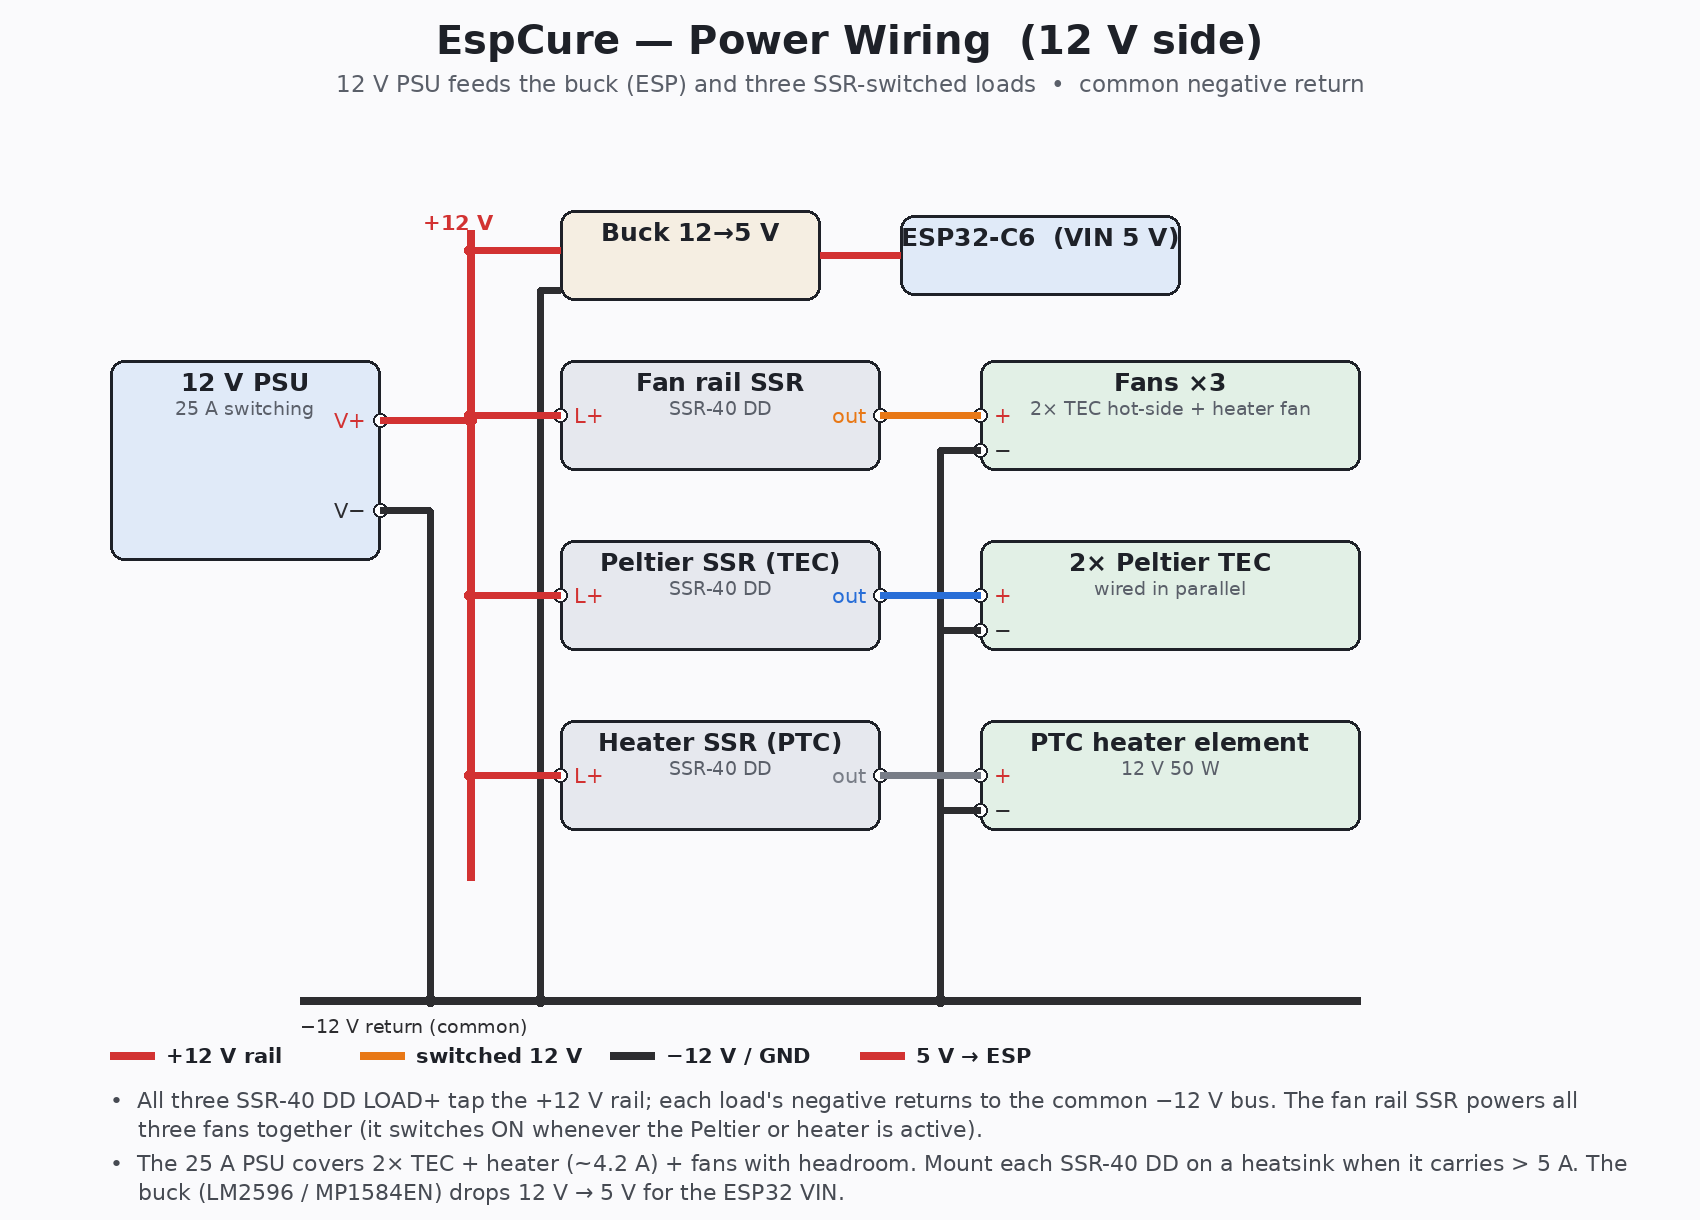
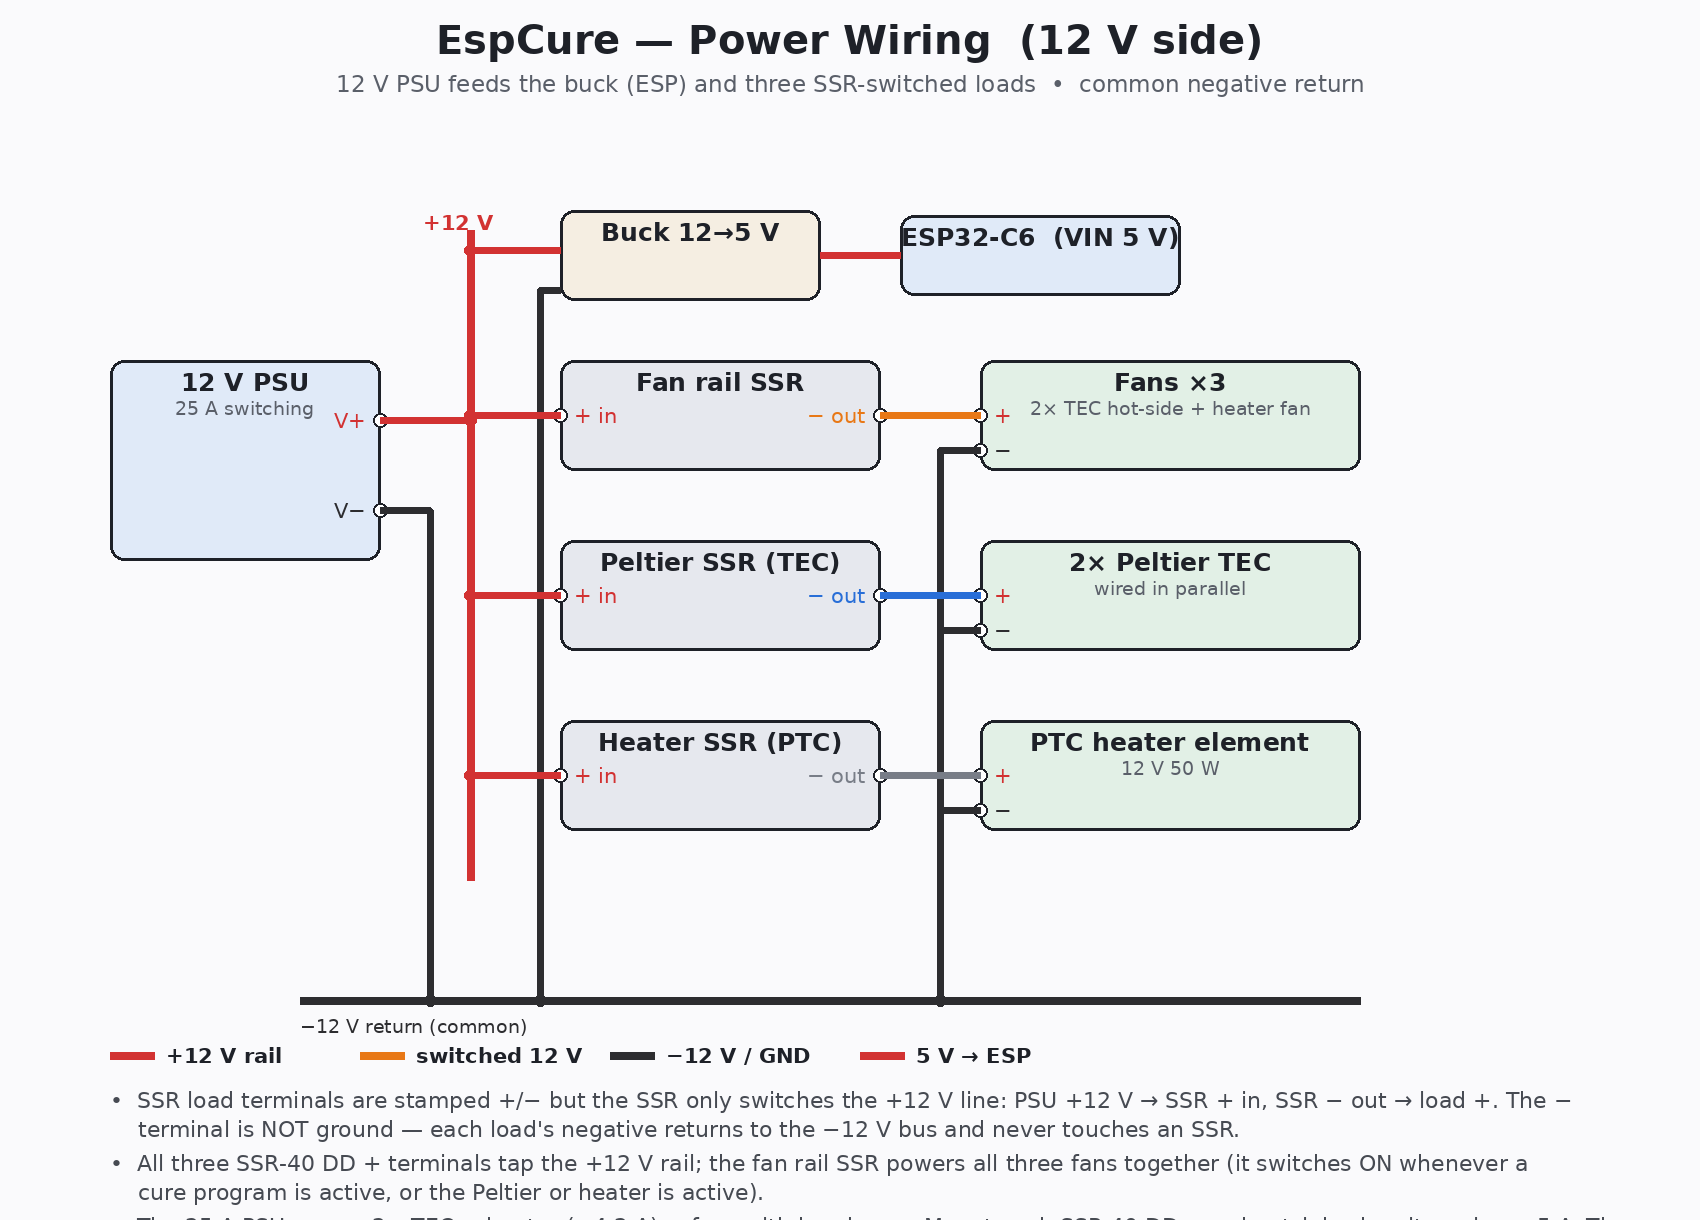
Deployed f89e065 with MkDocs version: 1.6.1

diff --git a/hardware/index.html b/hardware/index.html
@@ -1202,42 +1202,110 @@
 <blockquote>
 <p>Both diagrams are generated by <code>docs/wiring_diagrams.py</code> (<code>python3 docs/wiring_diagrams.py</code>). Edit the script and re-run to regenerate <code>docs/wiring_control.png</code> and <code>docs/wiring_power.png</code>.</p>
 </blockquote>
-<p>A text version of the full system wiring:</p>
-<div class="highlight"><pre><span></span><code><a id="__codelineno-0-1" name="__codelineno-0-1" href="#__codelineno-0-1"></a>                     ┌──────────────────────────────────────┐
-<a id="__codelineno-0-2" name="__codelineno-0-2" href="#__codelineno-0-2"></a>                     │        ESP32-C6 DevKitC-1            │
-<a id="__codelineno-0-3" name="__codelineno-0-3" href="#__codelineno-0-3"></a>                     │                                      │
-<a id="__codelineno-0-4" name="__codelineno-0-4" href="#__codelineno-0-4"></a>  SHT45 SDA ─────────┤ GPIO21 (SDA) ── OLED SDA             │
-<a id="__codelineno-0-5" name="__codelineno-0-5" href="#__codelineno-0-5"></a>  SHT45 SCL ─────────┤ GPIO22 (SCL) ── OLED SCL             │
-<a id="__codelineno-0-6" name="__codelineno-0-6" href="#__codelineno-0-6"></a>                     │                  GPIO5  ├──── SSR-40 DD (Fan) IN+
-<a id="__codelineno-0-7" name="__codelineno-0-7" href="#__codelineno-0-7"></a>                     │                  GPIO8  │ WS2812 RGB LED (built-in)
-<a id="__codelineno-0-8" name="__codelineno-0-8" href="#__codelineno-0-8"></a>                     │                  GPIO9  │ BOOT button (built-in)
-<a id="__codelineno-0-9" name="__codelineno-0-9" href="#__codelineno-0-9"></a>                     │                  GPIO18 ├──── SSR-40 DD (TEC)  IN+
-<a id="__codelineno-0-10" name="__codelineno-0-10" href="#__codelineno-0-10"></a>                     │                  GPIO19 ├──── SSR-40 DD (Heat) IN+
-<a id="__codelineno-0-11" name="__codelineno-0-11" href="#__codelineno-0-11"></a>                     │                  GND    ├──── all 3 SSR IN−
-<a id="__codelineno-0-12" name="__codelineno-0-12" href="#__codelineno-0-12"></a>                     └──────────────────────────────────────┘
-<a id="__codelineno-0-13" name="__codelineno-0-13" href="#__codelineno-0-13"></a>
-<a id="__codelineno-0-14" name="__codelineno-0-14" href="#__codelineno-0-14"></a>  12V PSU (+) ──── SSR-40 DD (Fan)  LOAD+ ──── TEC fan 1 (+)
-<a id="__codelineno-0-15" name="__codelineno-0-15" href="#__codelineno-0-15"></a>               │                          └──── TEC fan 2 (+)
-<a id="__codelineno-0-16" name="__codelineno-0-16" href="#__codelineno-0-16"></a>               │                          └──── Heater fan (+)
-<a id="__codelineno-0-17" name="__codelineno-0-17" href="#__codelineno-0-17"></a>               │
-<a id="__codelineno-0-18" name="__codelineno-0-18" href="#__codelineno-0-18"></a>               ├──── SSR-40 DD (TEC)  LOAD+ ──── TEC 1 (+)
-<a id="__codelineno-0-19" name="__codelineno-0-19" href="#__codelineno-0-19"></a>               │                          └──── TEC 2 (+)  [parallel]
-<a id="__codelineno-0-20" name="__codelineno-0-20" href="#__codelineno-0-20"></a>               │
-<a id="__codelineno-0-21" name="__codelineno-0-21" href="#__codelineno-0-21"></a>               └──── SSR-40 DD (Heat) LOAD+ ──── PTC element (+)
-<a id="__codelineno-0-22" name="__codelineno-0-22" href="#__codelineno-0-22"></a>
-<a id="__codelineno-0-23" name="__codelineno-0-23" href="#__codelineno-0-23"></a>  12V PSU (−) ──── all TEC (−), fan (−), PTC element (−)  [common ground]
-<a id="__codelineno-0-24" name="__codelineno-0-24" href="#__codelineno-0-24"></a>
-<a id="__codelineno-0-25" name="__codelineno-0-25" href="#__codelineno-0-25"></a>  12V PSU (+) ─── Buck converter (12V→5V) ─── ESP32 VIN
-<a id="__codelineno-0-26" name="__codelineno-0-26" href="#__codelineno-0-26"></a>
-<a id="__codelineno-0-27" name="__codelineno-0-27" href="#__codelineno-0-27"></a>  SHT45 VDD ─── 3.3V   SHT45 GND ─── GND
-<a id="__codelineno-0-28" name="__codelineno-0-28" href="#__codelineno-0-28"></a>  OLED VCC  ─── 3.3V   OLED GND  ─── GND
-</code></pre></div>
+<p>A connection-table version of the full system wiring:</p>
+<p><strong>Control side (3.3 V logic) — ESP32-C6 pins:</strong></p>
+<table>
+<thead>
+<tr>
+<th>ESP32-C6 pin</th>
+<th>Connects to</th>
+</tr>
+</thead>
+<tbody>
+<tr>
+<td>GPIO21 (SDA)</td>
+<td>SHT45 SDA <strong>+</strong> OLED SDA</td>
+</tr>
+<tr>
+<td>GPIO22 (SCL)</td>
+<td>SHT45 SCL <strong>+</strong> OLED SCL</td>
+</tr>
+<tr>
+<td>GPIO5</td>
+<td>Fan-rail SSR <code>IN+</code></td>
+</tr>
+<tr>
+<td>GPIO18</td>
+<td>Peltier (TEC) SSR <code>IN+</code></td>
+</tr>
+<tr>
+<td>GPIO19</td>
+<td>Heater SSR <code>IN+</code></td>
+</tr>
+<tr>
+<td>GND</td>
+<td>all 3 SSR <code>IN−</code></td>
+</tr>
+<tr>
+<td>GPIO8</td>
+<td>WS2812 RGB LED (on-board — no wiring)</td>
+</tr>
+<tr>
+<td>GPIO9</td>
+<td>BOOT button (on-board — no wiring)</td>
+</tr>
+<tr>
+<td>3.3 V</td>
+<td>SHT45 VDD <strong>+</strong> OLED VCC</td>
+</tr>
+<tr>
+<td>GND</td>
+<td>SHT45 GND <strong>+</strong> OLED GND</td>
+</tr>
+<tr>
+<td>5 V (VIN)</td>
+<td>Buck converter (12 V→5 V) output</td>
+</tr>
+</tbody>
+</table>
+<p><strong>Power side (12 V) — each SSR switches the +12 V line only:</strong></p>
+<table>
+<thead>
+<tr>
+<th>12 V PSU</th>
+<th>→ SSR (<code>+ in</code> → <code>− out</code>)</th>
+<th>→ Load (positive lead)</th>
+</tr>
+</thead>
+<tbody>
+<tr>
+<td>+12 V</td>
+<td>Fan-rail SSR</td>
+<td>Fans ×3 <code>+</code> (2× TEC hot-side + heater fan)</td>
+</tr>
+<tr>
+<td>+12 V</td>
+<td>Peltier SSR</td>
+<td>2× TEC <code>+</code> (wired in parallel)</td>
+</tr>
+<tr>
+<td>+12 V</td>
+<td>Heater SSR</td>
+<td>PTC element <code>+</code></td>
+</tr>
+<tr>
+<td><strong>−12 V</strong></td>
+<td><em>(common return — never touches an SSR)</em></td>
+<td>all loads <code>−</code> (TEC, fans, PTC)</td>
+</tr>
+</tbody>
+</table>
+<blockquote>
+<p>⚠️ <strong>SSR load-terminal polarity (this trips people up):</strong> A DC SSR-40 DD's
+load terminals are stamped <code>+</code> and <code>−</code>, but the SSR is just a switch in the
+<strong>positive 12 V line</strong> — it never carries the negative rail. Wire
+<strong>PSU +12 V → load <code>+</code> terminal</strong>, and <strong>load <code>−</code> terminal → the load's
+positive (+) lead</strong> (fan +, TEC +, PTC +). The <code>+/−</code> stamps mark the DC
+polarity the SSR expects, <em>not</em> which rail each terminal carries. Every
+load's <strong>negative</strong> returns straight to the PSU −12 V common bus and never
+touches the SSR.</p>
+</blockquote>
 <h2 id="oled-display-wiring">OLED Display Wiring<a class="headerlink" href="#oled-display-wiring" title="Permanent link">&para;</a></h2>
 <p>The SSD1306 OLED shares the existing I²C bus — only 4 wires needed:</p>
-<div class="highlight"><pre><span></span><code><a id="__codelineno-1-1" name="__codelineno-1-1" href="#__codelineno-1-1"></a>OLED VCC → ESP32 3.3V
-<a id="__codelineno-1-2" name="__codelineno-1-2" href="#__codelineno-1-2"></a>OLED GND → ESP32 GND
-<a id="__codelineno-1-3" name="__codelineno-1-3" href="#__codelineno-1-3"></a>OLED SDA → GPIO21  (same wire as SHT45 SDA)
-<a id="__codelineno-1-4" name="__codelineno-1-4" href="#__codelineno-1-4"></a>OLED SCL → GPIO22  (same wire as SHT45 SCL)
+<div class="highlight"><pre><span></span><code><a id="__codelineno-0-1" name="__codelineno-0-1" href="#__codelineno-0-1"></a>OLED VCC → ESP32 3.3V
+<a id="__codelineno-0-2" name="__codelineno-0-2" href="#__codelineno-0-2"></a>OLED GND → ESP32 GND
+<a id="__codelineno-0-3" name="__codelineno-0-3" href="#__codelineno-0-3"></a>OLED SDA → GPIO21  (same wire as SHT45 SDA)
+<a id="__codelineno-0-4" name="__codelineno-0-4" href="#__codelineno-0-4"></a>OLED SCL → GPIO22  (same wire as SHT45 SCL)
 </code></pre></div>
 <p>The SSD1306 I²C address (0x3C) does not conflict with the SHT45 (0x44). No pull-up resistors are needed if the SHT45 breakout already has them (most do).</p>
 <p>For a 1.3" SH1106 OLED, wiring is identical — change <code>model: "SSD1306 128x64"</code> to <code>model: "SH1106 128x64"</code> in <code>espcure.yaml</code>.</p>
@@ -1254,16 +1322,19 @@
 <p>Mount the SHT45 inside the chamber, away from the Peltier cold plate and out of the direct hot-side fan stream. Ideal position: center-rear of the interior air space, elevated off the floor. The SHT45 has negligible self-heating (~0.1–0.2 °C at 3.3 V) — far less than the SHT31. Still calibrate with an offset after install.</p>
 <p>The SHT45 on-chip heater is <strong>off during normal operation</strong> (<code>heater_max_duty: 0.0</code>). If condensation forms on the sensor face (humidity reads ~100 % after a rapid temperature drop), press <strong>Clear Sensor Condensation</strong> in HA or the device web UI — it briefly enables the heater for one measurement cycle to evaporate the condensation, then immediately disables it and takes a clean reading. See <code>docs/calibration.md</code> for details.</p>
 <h2 id="swapping-the-chamber-sensor-sht31-sht45">Swapping the chamber sensor (SHT31 ↔ SHT45)<a class="headerlink" href="#swapping-the-chamber-sensor-sht31-sht45" title="Permanent link">&para;</a></h2>
-<p>Both the SHT31-D and SHT45 use I²C address <code>0x44</code> and the same 4-wire connection, so the wiring never changes. They differ only in the ESPHome platform (<code>sht3xd</code> vs <code>sht4x</code>) and the on-chip heater API. The config selects between them with a single substitution at the top of <code>espcure.yaml</code>:</p>
-<div class="highlight"><pre><span></span><code><a id="__codelineno-2-1" name="__codelineno-2-1" href="#__codelineno-2-1"></a><span class="nt">substitutions</span><span class="p">:</span>
-<a id="__codelineno-2-2" name="__codelineno-2-2" href="#__codelineno-2-2"></a><span class="w">  </span><span class="nt">sht_platform</span><span class="p">:</span><span class="w"> </span><span class="l l-Scalar l-Scalar-Plain">sht3xd</span><span class="w">        </span><span class="c1"># SHT31  (change to sht4x for the SHT45)</span>
+<p>Both the SHT31-D and SHT45 use I²C address <code>0x44</code> and the same 4-wire connection, so the wiring never changes. They differ only in the ESPHome platform (<code>sht3xd</code> vs <code>sht4x</code>) and the on-chip heater API. <strong>The firmware ships with the SHT45 (<code>sht4x</code>) active</strong>; the SHT31 lines are kept commented directly below for a one-step swap-back. The config selects between them with three grouped substitutions at the top of <code>espcure.yaml</code>:</p>
+<div class="highlight"><pre><span></span><code><a id="__codelineno-1-1" name="__codelineno-1-1" href="#__codelineno-1-1"></a><span class="nt">substitutions</span><span class="p">:</span>
+<a id="__codelineno-1-2" name="__codelineno-1-2" href="#__codelineno-1-2"></a><span class="w">  </span><span class="c1"># SHT45 (active) — no on-demand heater API, so the heater statements are no-ops</span>
+<a id="__codelineno-1-3" name="__codelineno-1-3" href="#__codelineno-1-3"></a><span class="w">  </span><span class="nt">sht_platform</span><span class="p">:</span><span class="w">   </span><span class="l l-Scalar l-Scalar-Plain">sht4x</span>
+<a id="__codelineno-1-4" name="__codelineno-1-4" href="#__codelineno-1-4"></a><span class="w">  </span><span class="nt">sht_heater_on</span><span class="p">:</span><span class="w">  </span><span class="s">&quot;;&quot;</span>
+<a id="__codelineno-1-5" name="__codelineno-1-5" href="#__codelineno-1-5"></a><span class="w">  </span><span class="nt">sht_heater_off</span><span class="p">:</span><span class="w"> </span><span class="s">&quot;;&quot;</span>
+<a id="__codelineno-1-6" name="__codelineno-1-6" href="#__codelineno-1-6"></a><span class="w">  </span><span class="c1"># SHT31 option (uncomment these, comment the sht4x trio above):</span>
+<a id="__codelineno-1-7" name="__codelineno-1-7" href="#__codelineno-1-7"></a><span class="w">  </span><span class="c1"># sht_platform:   sht3xd</span>
+<a id="__codelineno-1-8" name="__codelineno-1-8" href="#__codelineno-1-8"></a><span class="w">  </span><span class="c1"># sht_heater_on:  &quot;id(sht45).set_heater_enabled(true);&quot;</span>
+<a id="__codelineno-1-9" name="__codelineno-1-9" href="#__codelineno-1-9"></a><span class="w">  </span><span class="c1"># sht_heater_off: &quot;id(sht45).set_heater_enabled(false);&quot;</span>
 </code></pre></div>
-<p>To swap, change <strong>two</strong> things, then reflash:</p>
-<ol>
-<li>The <code>sht_platform</code> substitution (<code>sht3xd</code> = SHT31, <code>sht4x</code> = SHT45).</li>
-<li>The <strong>Clear Sensor Condensation</strong> button lambda — the heater API differs (<code>set_heater_enabled(bool)</code> on the SHT31, <code>set_heater_max_duty(float)</code> on the SHT45). Both versions are kept in the button's <code>on_press</code> block; comment out one and uncomment the other.</li>
-</ol>
-<p>Run <code>esphome config espcure.yaml</code>, then <code>esphome run espcure.yaml</code>. Because the SHT31 has higher self-heating than the SHT45, <strong>re-measure the calibration offset</strong> after swapping (see <code>docs/calibration.md</code>).</p>
+<p>To swap, comment one trio and uncomment the other, then reflash. No lambda editing — the <strong>Clear Sensor Condensation</strong> button pulls its heater statements from the <code>sht_heater_on</code>/<code>sht_heater_off</code> substitutions. The SHT31 has a real runtime heater (<code>set_heater_enabled(bool)</code>); the SHT45 has <strong>no</strong> on-demand heater API (its heater is config-time only), so on the SHT45 the button simply takes a fresh reading.</p>
+<p>Run <code>esphome config espcure.yaml</code>, then <code>esphome run espcure.yaml</code>. CI compiles both variants, so a mismatched substitution fails the build. Because the SHT31 has higher self-heating than the SHT45, <strong>re-measure the calibration offset</strong> after swapping (see <code>docs/calibration.md</code>).</p>
 <h2 id="dehumidification">Dehumidification<a class="headerlink" href="#dehumidification" title="Permanent link">&para;</a></h2>
 <p>The Peltier cold plate is the sole dehumidification mechanism. When the dew-point or VPD control loop is active, the Peltier condenses moisture from the chamber air by pulling the cold plate temperature below the air's dew point. There is no external dehumidifier relay.</p>
 <h2 id="frost-protection-software-only">Frost Protection (Software-Only)<a class="headerlink" href="#frost-protection-software-only" title="Permanent link">&para;</a></h2>

diff --git a/calibration/index.html b/calibration/index.html
@@ -945,8 +945,8 @@
 <hr />
 <h2 id="on-chip-heater-clear-sensor-condensation">On-Chip Heater (Clear Sensor Condensation)<a class="headerlink" href="#on-chip-heater-clear-sensor-condensation" title="Permanent link">&para;</a></h2>
 <p>Both the SHT31 and SHT45 have a built-in resistive heater for evaporating condensation off the sensing element. It is <strong>off during normal operation</strong> so it never biases readings.</p>
-<p>If the humidity reading pegs near 100 % after a rapid temperature drop (condensation on the sensor face), press the <strong>Clear Sensor Condensation</strong> button in HA or the device web UI. The firmware enables the heater, forces a measurement cycle (the heater fires during it), waits ~1–1.5 s, then disables the heater and takes a clean reading.</p>
-<p>The button works on whichever sensor is selected — the heater API differs (<code>set_heater_enabled(true/false)</code> on the SHT31, <code>set_heater_max_duty(1.0/0.0)</code> on the SHT45), so both versions live in the button's <code>on_press</code> block in <code>espcure.yaml</code>; the active one matches the <code>sht_platform</code> substitution.</p>
+<p>If the humidity reading pegs near 100 % after a rapid temperature drop (condensation on the sensor face), press the <strong>Clear Sensor Condensation</strong> button in HA or the device web UI.</p>
+<p>The button works on whichever sensor is selected, via the <code>sht_heater_on</code>/<code>sht_heater_off</code> substitutions. On the <strong>SHT31</strong> (<code>sht3xd</code>) it pulses the real on-chip heater (<code>set_heater_enabled(true/false)</code>) for one measurement cycle, then takes a clean reading. The <strong>SHT45</strong> (<code>sht4x</code>) has <strong>no on-demand heater API</strong> — its heater is config-time only — so on the SHT45 the substitutions are no-ops (<code>";"</code>) and the button simply forces a fresh reading. (The firmware ships with the SHT45 active.)</p>
 <p>Avoid pressing the button repeatedly — the heater temporarily biases both temperature and RH upward, and the effect clears within one update cycle after it's disabled.</p>
 <hr />
 <h2 id="dew-point-accuracy">Dew Point Accuracy<a class="headerlink" href="#dew-point-accuracy" title="Permanent link">&para;</a></h2>

diff --git a/wiring_diagrams.py b/wiring_diagrams.py
@@ -193,9 +193,9 @@ def power_diagram():
     ]
     SX0, SX1 = 560, 880
     for title, y0, y1, my, color in ssr:
-        box(d, SX0, y0, SX1, y1, title, (230, 232, 238), "SSR-40 DD")
-        pin(d, SX0, my, "L+", "left", RED)
-        pin(d, SX1, my, "out", "right", color)
+        box(d, SX0, y0, SX1, y1, title, (230, 232, 238))
+        pin(d, SX0, my, "+ in", "left", RED)
+        pin(d, SX1, my, "− out", "right", color)
         poly(d, [(RAILX, my), (SX0, my)], RED); dot(d, RAILX, my, RED)
 
     loads = [
@@ -214,7 +214,8 @@ def power_diagram():
 
     legend(d, 110, 1055, [("+12 V rail", RED), ("switched 12 V", ORANGE), ("−12 V / GND", BLACK), ("5 V → ESP", RED)])
     notes(d, 110, 1100, [
-        "All three SSR-40 DD LOAD+ tap the +12 V rail; each load's negative returns to the common −12 V bus. The fan rail SSR powers all three fans together (it switches ON whenever the Peltier or heater is active).",
+        "SSR load terminals are stamped +/− but the SSR only switches the +12 V line: PSU +12 V → SSR + in, SSR − out → load +. The − terminal is NOT ground — each load's negative returns to the −12 V bus and never touches an SSR.",
+        "All three SSR-40 DD + terminals tap the +12 V rail; the fan rail SSR powers all three fans together (it switches ON whenever a cure program is active, or the Peltier or heater is active).",
         "The 25 A PSU covers 2× TEC + heater (~4.2 A) + fans with headroom. Mount each SSR-40 DD on a heatsink when it carries > 5 A. The buck (LM2596 / MP1584EN) drops 12 V → 5 V for the ESP32 VIN.",
     ], width=128)
     img.save("docs/wiring_power.png")